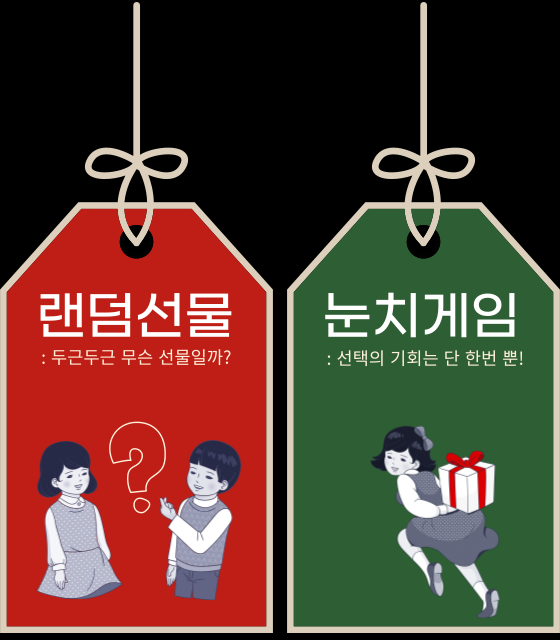
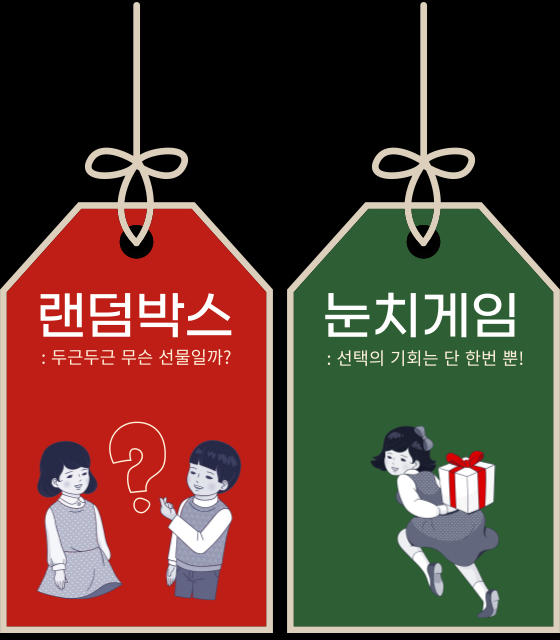
chore: 선착순 이벤트 표기 수정

Changed region(s): [[0.2429, 0.4375, 0.425, 0.5312]]

diff --git a/src/domains/EventDetail/Cover.tsx b/src/domains/EventDetail/Cover.tsx
@@ -52,7 +52,7 @@ const Cover = ({
         링크 복사
       </MUIButton>
       <Text color="TEXT_GRAY_DARK">
-        {`${eventType === 'FIFO' ? '#선착순' : '#랜덤'} ${
+        {`${eventType === 'FIFO' ? '#눈치게임' : '#랜덤박스'} ${
           status === 'READY'
             ? '#준비중'
             : status === 'RUNNING'
